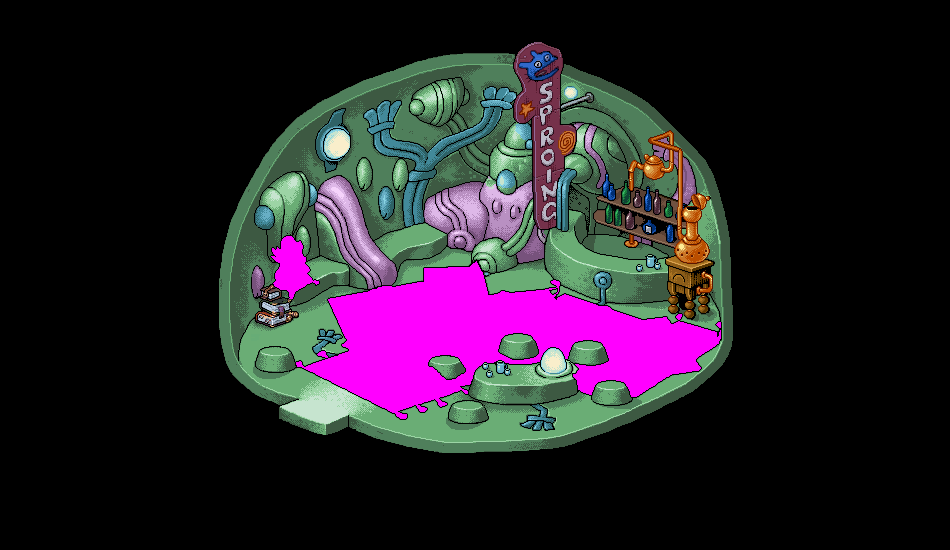
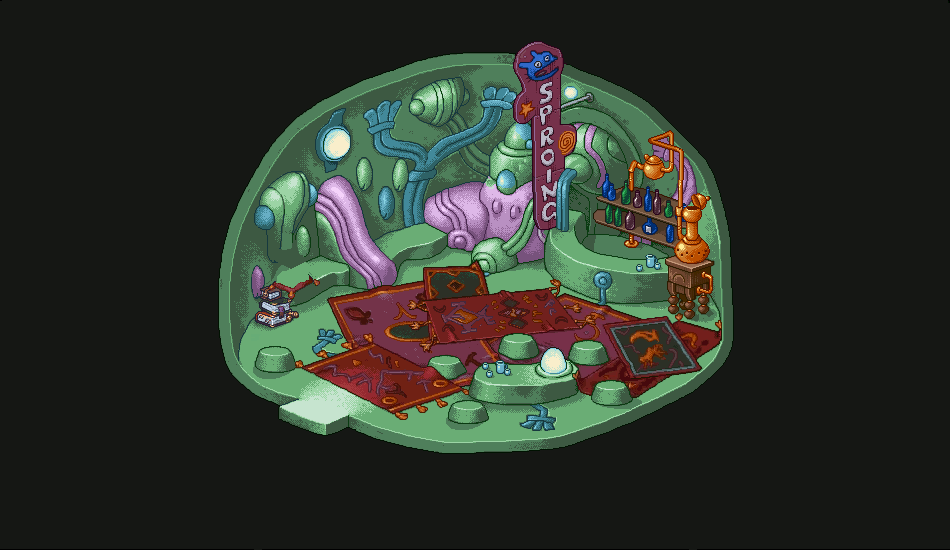
transit bar

diff --git a/README.md b/README.md
@@ -18,40 +18,40 @@ If you think you may be able to help, please send a message to the server-owner 
 
 ## Progress
 
-| room | background | foreground | NPCs | animations |
-|-----|-----|-----|-----|-----|
-| 01_dragon_port | RECOVERED | RECOVERED | RECOVERED | RECOVERED |
-| 02_cloud_garden | recreated | recreated^ | recreated | NA |
-| 03_cloud_plaza* | recreated | recreated^ | recreated | NA |
-| 04_sky_terrace | recreated | recreated^ | RECOVERED | recreated^ |
-| 05_sky_port | recreated | RECOVERED | RECOVERED | RECOVERED | RECOVERED |
-| 06_members_lounge | recreated |  | NA | NA |
-| 07_cloud_plaza_lift_hall | RECOVERED | RECOVERED | RECOVERED | RECOVERED |
-| 08_the_beneath_lift_hall | recreated |  | NA | RECOVERED |
-| 09_the_den | RECOVERED | RECOVERED |  | RECOVERED |
-| 10_aqua_lounge | RECOVERED | RECOVERED | recreated^ | RECOVERED |
-| 11_zorofs_shop | recreated |  | recreated |  |
-| 12_snipo_snapo | recreated |  | recreated | RECOVERED |
-| 13_sky_towers_lobby | recreated |  | ? | ? |
-| 14_hadleys_apartment | recreated |  | recreated | recreated |
-| 15_misty_haven | RECOVERED | RECOVERED | RECOVERED | RECOVERED |
-| 16_misty_mansion | RECOVERED | RECOVERED | RECOVERED | RECOVERED |
-| 17_stable_yard | recreated | recreated | NA | NA |
-| 18_misty_mansion_hall | recreated | recreated^ | NA | NA |
-| 19_misty_island_shop | recreated | recreated | RECOVERED | NA |
-| 20_pet_shop | recreated | receated^ |  | NA |
-| 21_ancient_skyport | recreated |  | NA | NA |
-| 22_temple_gardens | recreated |  | recreated |  |
-| 23_treetop_jungle | recreated |  | recreated^ |  |
-| 24_meyan_temple | recreated |  | recreated |  |
-| 25_transit_bar |  |  |  |  |
-| 26_meyan_race_stadium | recreated |  |  |  |
-| 27_the_bongo_camp | recreated* |  | recreated | NA |
-| 28_bongo_excavation | recreated |  | NA | NA |
-| 29_everflow_cavern | recreated* |  |  |  |
-| 30_bongo_cave | recreated |  |  |  |
-| 31_resurrection_chamber | recreated |  | NA | NA |
-| 32_tram_station | recreated |  |  |  |
+| room | background | NPCs | animations |
+|-----|-----|-----|-----|
+| 01_dragon_port | RECOVERED | RECOVERED | RECOVERED |
+| 02_cloud_garden | recreated | recreated | NA |
+| 03_cloud_plaza* | recreated | recreated | NA |
+| 04_sky_terrace | recreated | RECOVERED | recreated^ |
+| 05_sky_port | recreated | RECOVERED | RECOVERED | RECOVERED |
+| 06_members_lounge | recreated | NA | NA |
+| 07_cloud_plaza_lift_hall | RECOVERED | RECOVERED | RECOVERED |
+| 08_the_beneath_lift_hall | recreated | NA | RECOVERED |
+| 09_the_den | RECOVERED | restored  | RECOVERED |
+| 10_aqua_lounge | RECOVERED | recreated^ | RECOVERED |
+| 11_zorofs_shop | recreated | recreated |  |
+| 12_snipo_snapo | recreated | recreated | RECOVERED |
+| 13_sky_towers_lobby | recreated | ? | ? |
+| 14_hadleys_apartment | recreated | recreated | recreated |
+| 15_misty_haven | RECOVERED | RECOVERED | RECOVERED |
+| 16_misty_mansion | RECOVERED | RECOVERED | RECOVERED |
+| 17_stable_yard | RECOLORED | NA | NA |
+| 18_misty_mansion_hall | recreated | NA | NA |
+| 19_misty_island_shop | recreated  | RECOVERED | NA |
+| 20_pet_shop | recreated |  | NA |
+| 21_ancient_skyport | recreated | NA | NA |
+| 22_temple_gardens | recreated | recreated |  |
+| 23_treetop_jungle | recreated | recreated^ |  |
+| 24_meyan_temple | recreated | recreated |  |
+| 25_transit_bar | recreated |  |  |
+| 26_meyan_race_stadium | recreated |  |  |
+| 27_the_bongo_camp | recreated* | recreated | NA |
+| 28_bongo_excavation | recreated | NA | NA |
+| 29_everflow_cavern | recreated* |  |  |
+| 30_bongo_cave | recreated |  |  |
+| 31_resurrection_chamber | recreated | NA | NA |
+| 32_tram_station | recreated |  |  |
 
 ^ The files/frames are not on Icepool
 
